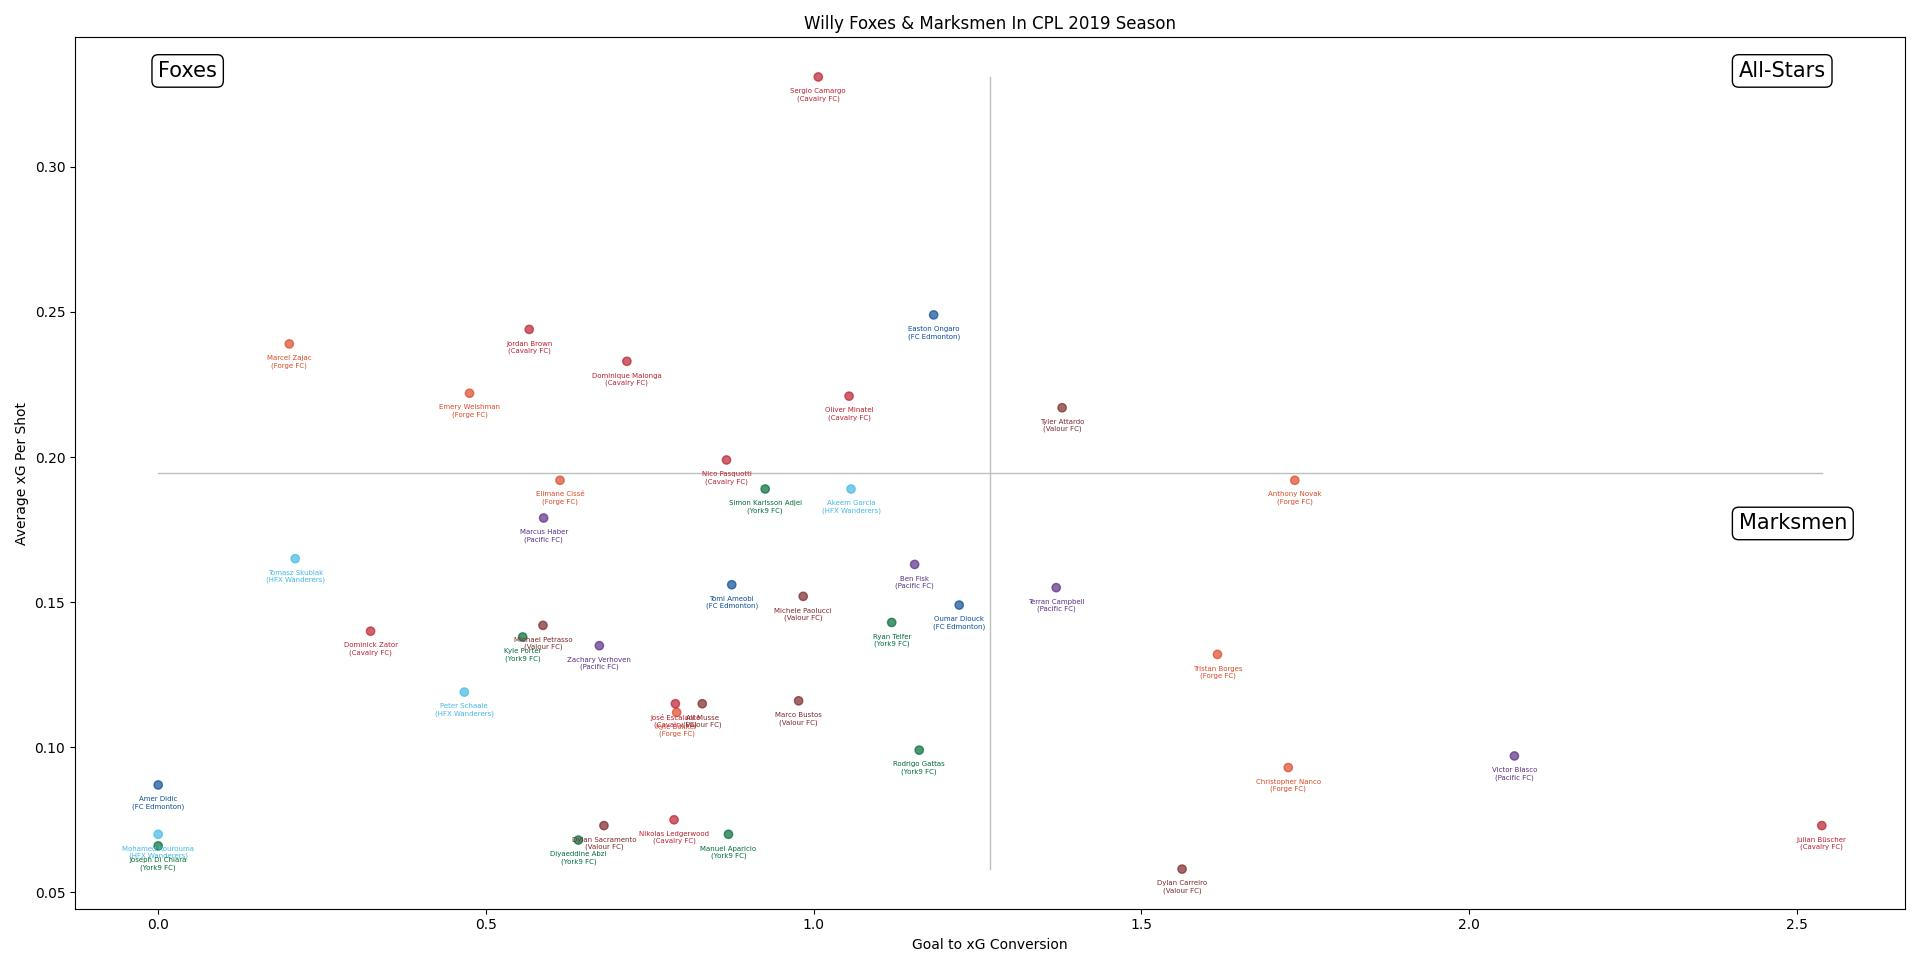
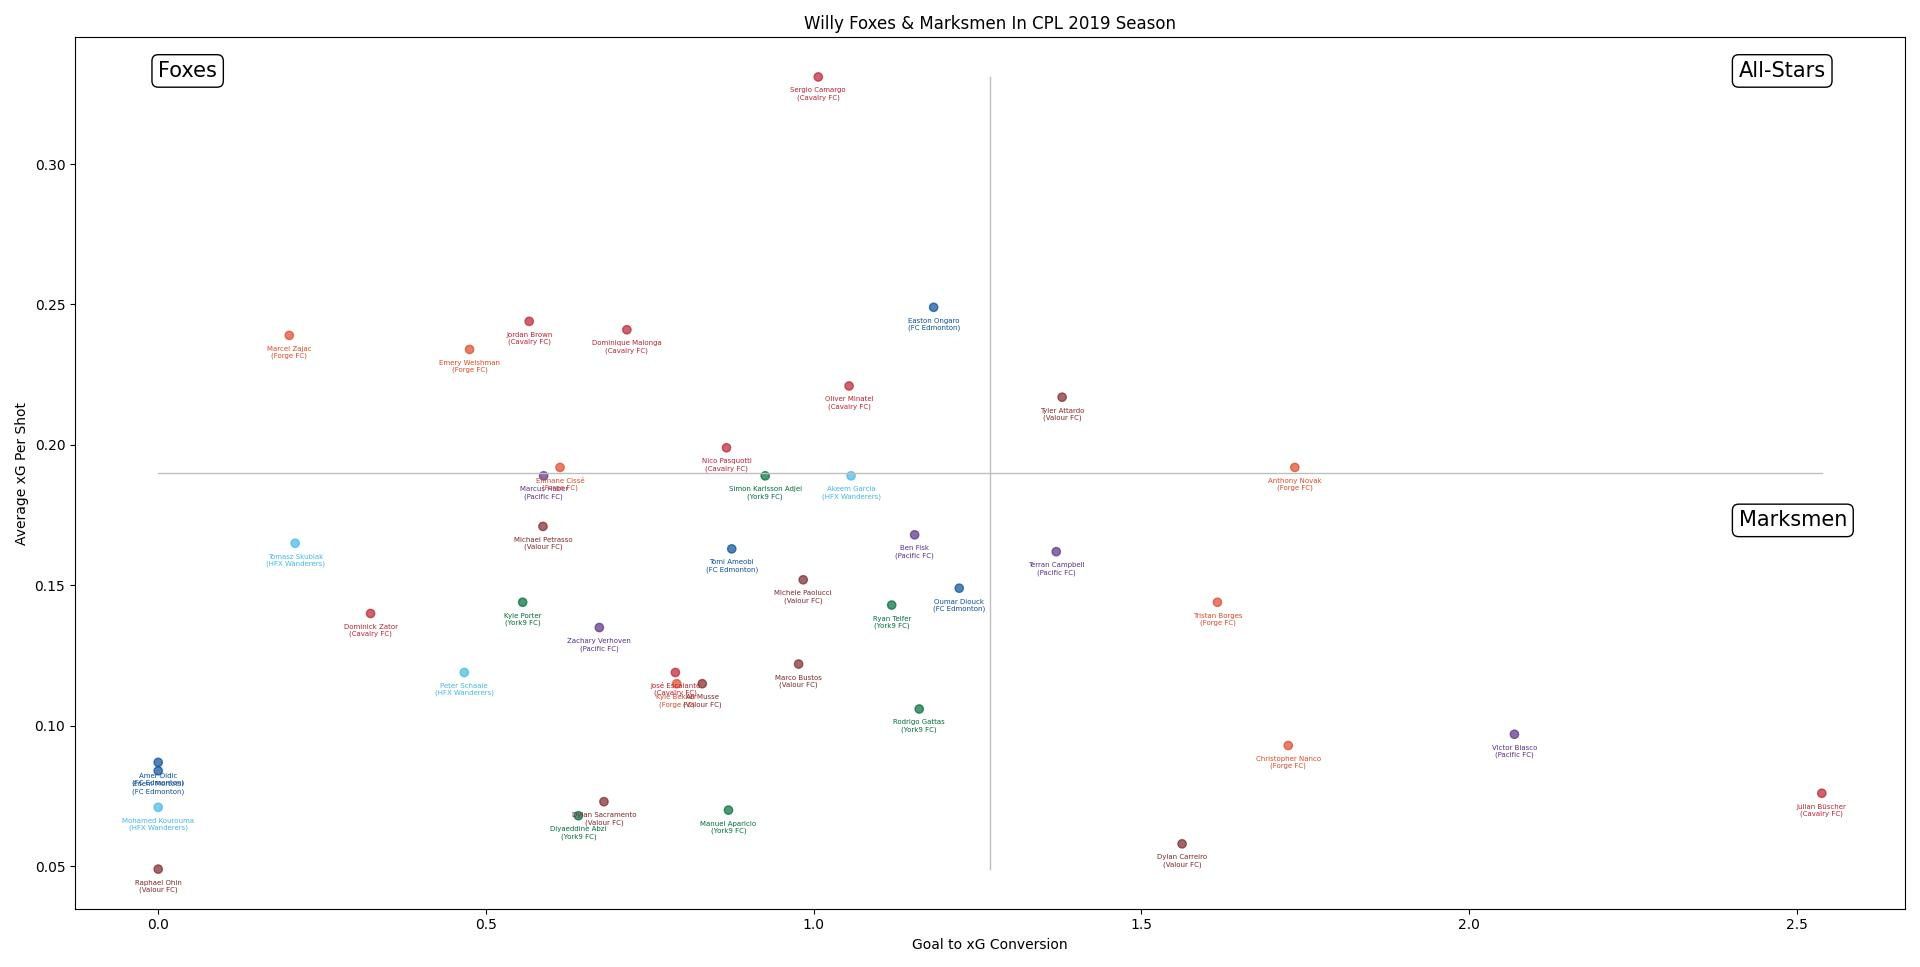
Update code and scatterplot: Total shots taken should take into account penalties taken

diff --git a/main.py b/main.py
@@ -45,7 +45,7 @@ player_final_non_penalty_goal = []
 player_final_ExpG = []
 for index, row in dataframe.iterrows():
     # Find out player's total shots
-    player_shots = row['SOG'] + row['Off']
+    player_shots = row['SOG'] + row['Off'] - row['PenTaken']
     player_total_shots.append(player_shots)
     # Find out player's total non-penalty goals
     player_non_penalty_goal = row['Goal'] - row['PenGoal']
